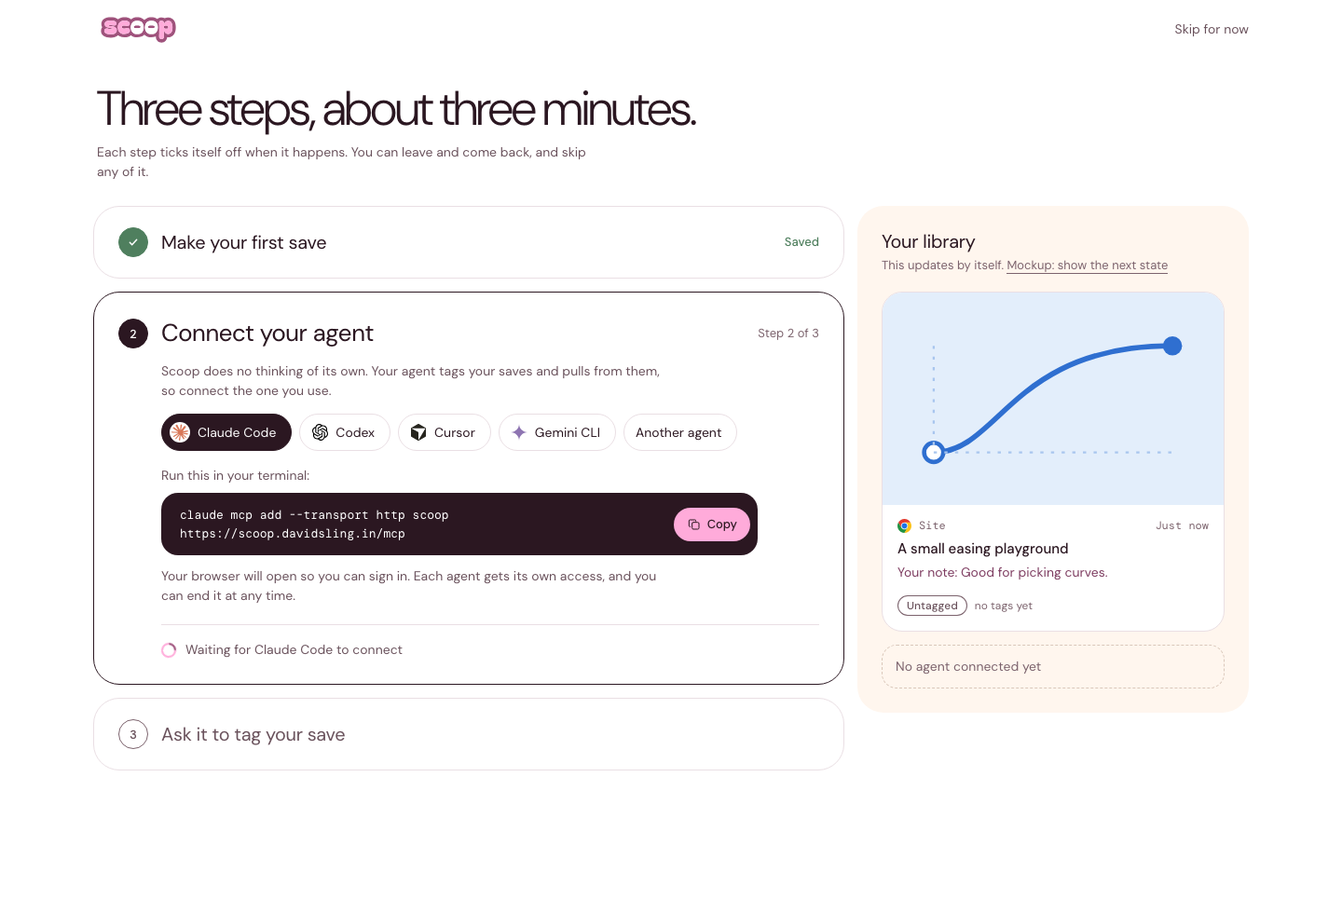
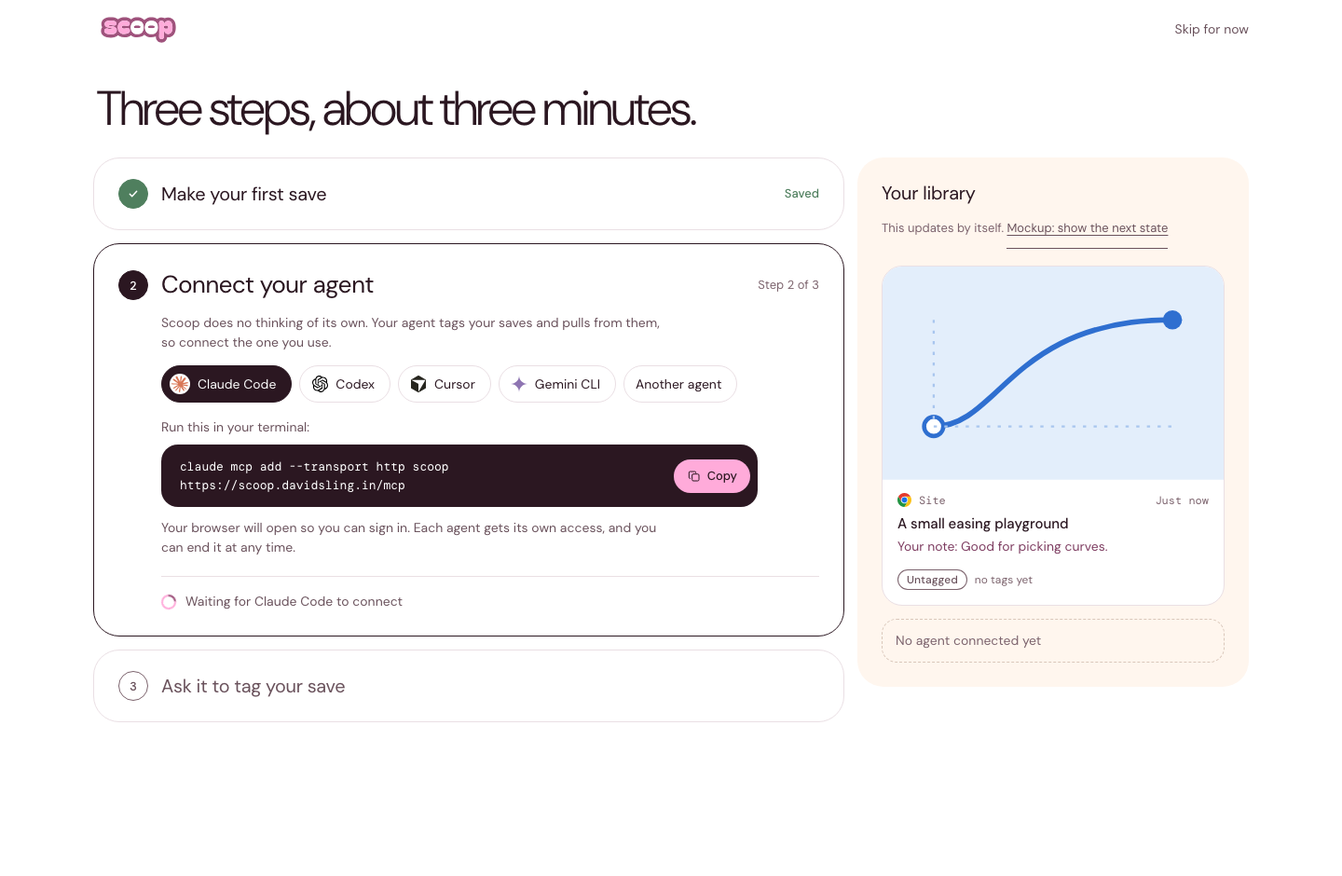
feat: add a clickable onboarding walkthrough

diff --git a/mockups/onboarding.html b/mockups/onboarding.html
@@ -1,0 +1,297 @@
+<!doctype html>
+<html lang="en">
+<head>
+<meta charset="utf-8">
+<meta name="viewport" content="width=device-width, initial-scale=1">
+<title>Get started · Scoop</title>
+<!-- Mockup with invented sample data. Nothing here is real. -->
+<link rel="preconnect" href="https://fonts.googleapis.com">
+<link rel="preconnect" href="https://fonts.gstatic.com" crossorigin>
+<link href="https://fonts.googleapis.com/css2?family=DM+Mono:wght@400;500&family=DM+Sans:opsz,wght@9..40,300;9..40,400;9..40,500;9..40,600&display=swap" rel="stylesheet">
+<link rel="stylesheet" href="app.css">
+<link rel="stylesheet" href="onboarding.css">
+</head>
+<body>
+<svg width="0" height="0" style="position:absolute" aria-hidden="true">
+  <symbol id="i-plus" viewBox="0 0 24 24"><path d="M12 5.500v13M5.500 12h13"/></symbol>
+  <symbol id="i-x" viewBox="0 0 24 24"><path d="m7 7 10 10M17 7 7 17"/></symbol>
+  <symbol id="i-out" viewBox="0 0 24 24"><path d="M9 7h8v8M17 7 7 17"/></symbol>
+  <symbol id="i-pen" viewBox="0 0 24 24"><path d="m5 19 1-4L16.500 4.500l3 3L9 18z"/></symbol>
+  <symbol id="i-skill" viewBox="0 0 24 24"><path d="m12 4-8 4 8 4 8-4zM4 12l8 4 8-4M4 16l8 4 8-4"/></symbol>
+  <symbol id="i-grip" viewBox="0 0 24 24"><path d="M9 6.500h.01M15 6.500h.01M9 12h.01M15 12h.01M9 17.500h.01M15 17.500h.01" stroke-width="2.200"/></symbol>
+  <symbol id="i-tick" viewBox="0 0 24 24"><path d="m6.500 12.500 3.500 3.500 7.500-8" stroke-width="2.200"/></symbol>
+  <symbol id="i-home" viewBox="0 0 24 24"><path d="M4.5 10.5 12 4.5l7.5 6v8a1 1 0 0 1-1 1h-13a1 1 0 0 1-1-1z"/><path d="M9.5 19.500v-5.500h5v5.500"/></symbol>
+  <symbol id="i-inbox" viewBox="0 0 24 24"><path d="M3.5 13.5 6 5.5h12l2.5 8v4a1.5 1.5 0 0 1-1.5 1.5H5a1.5 1.5 0 0 1-1.5-1.5z"/><path d="M3.5 13.5h4.7l1 2.5h5.6l1-2.5h4.7"/></symbol>
+  <symbol id="i-shield" viewBox="0 0 24 24"><path d="M12 3.5 5 6v5.5c0 4.2 2.9 7.400 7 9 4.100-1.600 7-4.800 7-9V6z"/></symbol>
+  <symbol id="i-check" viewBox="0 0 24 24"><circle cx="12" cy="12" r="8.5"/><path d="m8.500 12.300 2.400 2.400 4.600-5"/></symbol>
+  <symbol id="i-plug" viewBox="0 0 24 24"><path d="M9 3.500v4M15 3.500v4M6.500 7.500h11v3.500a5.500 5.500 0 0 1-11 0zM12 16.500v4"/></symbol>
+  <symbol id="i-agent" viewBox="0 0 24 24"><rect x="4.500" y="8" width="15" height="11" rx="3"/><path d="M12 8V4.500M9.500 13v1.500M14.500 13v1.500"/></symbol>
+  <symbol id="i-log" viewBox="0 0 24 24"><path d="M8.500 6.500h11M8.500 12h11M8.500 17.500h11M4.500 6.500h.01M4.500 12h.01M4.500 17.500h.01"/></symbol>
+  <symbol id="i-gear" viewBox="0 0 24 24"><path d="M4.500 7.500h9M17.500 7.500h2M4.500 16.500h2M10.500 16.500h9"/><circle cx="15.500" cy="7.500" r="2"/><circle cx="8.500" cy="16.500" r="2"/></symbol>
+  <symbol id="i-search" viewBox="0 0 24 24"><circle cx="11" cy="11" r="6.500"/><path d="m16 16 4 4"/></symbol>
+  <symbol id="i-mail" viewBox="0 0 24 24"><rect x="3.500" y="5.500" width="17" height="13" rx="2"/><path d="m4 7 8 6 8-6"/></symbol>
+  <symbol id="i-page" viewBox="0 0 24 24"><rect x="3.500" y="4.500" width="17" height="15" rx="2"/><path d="M3.500 9h17M6.500 6.800h.01M9 6.800h.01"/></symbol>
+  <symbol id="i-hash" viewBox="0 0 24 24"><path d="M9.500 4.500 8 19.500M16 4.500l-1.500 15M5 9.500h14.500M4.500 14.500H19"/></symbol>
+  <symbol id="i-play" viewBox="0 0 24 24"><rect x="3.500" y="5.500" width="17" height="13" rx="3"/><path d="m10.500 9.500 4 2.500-4 2.500z"/></symbol>
+  <symbol id="i-branch" viewBox="0 0 24 24"><circle cx="7" cy="6" r="2"/><circle cx="7" cy="18" r="2"/><circle cx="17" cy="8" r="2"/><path d="M7 8v8M17 10c0 3-3 3.500-10 4"/></symbol>
+  <symbol id="i-hook" viewBox="0 0 24 24"><path d="M13 3.500 6 13.500h5.500l-1 7 7-10H12z"/></symbol>
+  <symbol id="i-copy" viewBox="0 0 24 24"><rect x="8.500" y="8.500" width="11" height="11" rx="2"/><path d="M5.500 15.500h-.5a1.500 1.500 0 0 1-1.500-1.500V6A1.500 1.500 0 0 1 5 4.500h8A1.500 1.500 0 0 1 14.500 6v.5"/></symbol>
+  <symbol id="i-tag" viewBox="0 0 24 24"><path d="M4.500 5.500v6l8 8 6.500-6.500-8-8z"/><path d="M8.500 9.500h.01"/></symbol>
+  <symbol id="i-clock" viewBox="0 0 24 24"><circle cx="12" cy="12" r="8.500"/><path d="M12 7.500V12l3 2"/></symbol>
+  <symbol id="i-trash" viewBox="0 0 24 24"><path d="M4.500 7h15M9.500 7V4.500h5V7M6.500 7l1 12.500h9l1-12.500"/></symbol>
+  <symbol id="i-flag" viewBox="0 0 24 24"><path d="M6 20.500v-16M6 5.500h11l-2.500 4 2.500 4H6"/></symbol>
+  <symbol id="i-chev" viewBox="0 0 24 24"><path d="m10 7 5 5-5 5"/></symbol>
+</svg>
+
+
+<!-- One-file clickthrough of the onboarding flow. Nothing is sent anywhere: every step is simulated. -->
+<div class="join" id="join">
+  <div class="art">
+    <img class="mark" src="../brand/lockup-v2/scoop-lockup-mark-transparent.svg" alt="">
+    <span class="logo"><img src="../brand/lockup-v2/scoop-lockup-tidy-wordmark-transparent.svg" alt="Scoop"></span>
+    <h1>Save what you like. Your agent takes it from there.</h1>
+    <p>A library of the posts, pages and tools you collect, kept where your AI agent can search it when a project starts.</p>
+  </div>
+  <div class="form">
+    <form id="f" novalidate>
+      <h2>Create your library</h2>
+      <p class="lead">It takes about three minutes to save your first thing and connect an agent.</p>
+      <div class="field">
+        <label for="u">Pick a name</label>
+        <div class="pick" id="pick"><input id="u" type="text" value="david" autocomplete="off" spellcheck="false" aria-describedby="uh"><span>@scoop.davidsling.in</span></div>
+        <div class="okline" id="uh" aria-live="polite"><svg class="i"><use href="#i-tick"/></svg><span>Available. This becomes your agent's address, for newsletters.</span></div>
+      </div>
+      <div class="field">
+        <label for="e">Your email</label>
+        <input id="e" type="email" placeholder="you@example.com" autocomplete="email" aria-describedby="eh">
+        <div class="hint" id="eh">We send a link to sign in. There is no password.</div>
+      </div>
+      <button class="btn solid wide" type="submit">Send me a sign-in link</button>
+      <div class="or">or</div>
+      <button class="btn outline wide" type="button" id="gh"><img class="b" src="icons/github.svg" alt="">Continue with GitHub</button>
+      <p class="fine">Scoop stores what you save and nothing else. It runs no AI of its own, and it never sends, posts or pays for anything.</p>
+    </form>
+    <div class="check" id="check" hidden>
+      <h2 tabindex="-1" id="checkh">Check your email</h2>
+      <p>We sent a sign-in link to <strong id="sent"></strong>. It works once and lasts 15 minutes.</p>
+      <button class="btn solid wide" type="button" id="open">Mockup: open the link</button>
+      <div class="links"><a href="#" id="again">Send it again</a><a href="#" id="change">Use a different email</a></div>
+    </div>
+  </div>
+</div>
+
+<div class="wrap" id="setup" hidden>
+  <header class="ob-top"><span class="logo"><img src="../brand/lockup-v2/scoop-lockup-tidy-wordmark-transparent.svg" alt="Scoop"></span><a class="skip" href="dashboard.html">Skip for now</a></header>
+  <div class="setup-hd">
+    <h1>Three steps, about three minutes.</h1>
+  </div>
+  <div class="setup">
+    <ol class="steps3">
+      <li class="step" data-i="0"><div class="sh"><span class="no"></span><h2 tabindex="-1">Make your first save</h2><span class="state"></span></div>
+        <div class="body">
+          <p>Add the Scoop button to Chrome. Then open any page you like, click the button, and add a line on why you are saving it.</p>
+          <button class="btn solid big" type="button" id="add"><img class="b" src="icons/googlechrome.svg" alt="">Add to Chrome</button><a class="alt" href="#" id="alt" aria-expanded="false" aria-controls="paste">No extension? Paste a link instead</a>
+          <form class="paste" id="paste" hidden><input id="url" type="url" aria-label="Link to save" placeholder="https://"><button class="btn outline" type="submit">Save it</button></form>
+          <div class="promise"><svg class="i"><use href="#i-shield"/></svg><span>The button reads a page only when you click it. It can add to your library and can never read it.</span></div>
+          <div class="waiting"><span class="ring"></span><span class="wt" aria-live="polite">Waiting for your first save</span></div>
+        </div>
+      </li>
+      <li class="step" data-i="1"><div class="sh"><span class="no"></span><h2 tabindex="-1">Connect your agent</h2><span class="state"></span></div>
+        <div class="body">
+          <p>Scoop does no thinking of its own. Your agent tags your saves and pulls from them, so connect the one you use.</p>
+          <ul class="agentpick" aria-label="Choose your agent">
+            <li><button type="button" data-a="claude"><img class="b" src="icons/claude.svg" alt="">Claude Code</button></li>
+            <li><button type="button" data-a="codex"><img class="b" src="icons/openai.svg" alt="">Codex</button></li>
+            <li><button type="button" data-a="cursor"><img class="b" src="icons/cursor.svg" alt="">Cursor</button></li>
+            <li><button type="button" data-a="gemini"><img class="b" src="icons/gemini.svg" alt="">Gemini CLI</button></li>
+            <li><button type="button" data-a="other">Another agent</button></li>
+          </ul>
+          <p style="margin-bottom:8px" id="lead"></p>
+          <div class="code"><code id="cmd"></code><button type="button" id="copy1"><svg class="i"><use href="#i-copy"/></svg><span>Copy</span></button></div>
+          <p class="sub2">Your browser will open so you can sign in. Each agent gets its own access, and you can end it at any time.</p>
+          <div class="waiting"><span class="ring"></span><span class="wt" aria-live="polite"></span></div>
+        </div>
+      </li>
+      <li class="step" data-i="2"><div class="sh"><span class="no"></span><h2 tabindex="-1">Ask it to tag your save</h2><span class="state"></span></div>
+        <div class="body">
+          <p>Your save has no tags yet, because Scoop never tags anything itself. Say this to <span data-an></span>:</p>
+          <div class="say"><span id="say">Tag the untagged saves in my Scoop library.</span><button type="button" id="copy2"><svg class="i"><use href="#i-copy"/></svg><span>Copy</span></button></div>
+          <p class="sub2">It will ask you before it changes anything else, and you can undo whatever it does.</p>
+          <div class="waiting"><span class="ring"></span><span class="wt" aria-live="polite">Waiting for the first tag</span></div>
+        </div>
+      </li>
+    </ol>
+    <aside class="live" id="live"></aside>
+  </div>
+</div>
+
+<div class="wrap" id="done" hidden>
+  <header class="ob-top"><span class="logo"><img src="../brand/lockup-v2/scoop-lockup-tidy-wordmark-transparent.svg" alt="Scoop"></span></header>
+  <div class="setup" style="margin-top:26px">
+    <div style="display:grid;gap:14px">
+      <section class="tile fin">
+        <img class="mark" src="../brand/lockup-v2/scoop-lockup-mark-transparent.svg" alt="">
+        <h1 tabindex="-1" id="doneh" style="outline:none"><span data-an></span> just tagged your save.</h1>
+        <p>That is the whole idea. You save what you like, and your agent keeps it organised and uses it when you start a project.</p>
+        <a class="btn solid" href="dashboard.html">Open your library</a>
+      </section>
+      <section class="tile">
+        <div class="hd"><h2>When you are ready</h2></div>
+        <ul class="next">
+          <li><span class="ic"><svg class="i"><use href="#i-mail"/></svg></span><div><div class="t">Subscribe to a newsletter</div><p>Use <span id="addr"></span> and every issue lands in your library.</p></div><button class="btn outline" type="button" id="copy3"><span>Copy address</span></button></li>
+          <li><span class="ic"><svg class="i"><use href="#i-page"/></svg></span><div><div class="t">Start a project</div><p>Put the saves you want used in one place, then point your agent at it.</p></div><a class="btn outline" href="projects.html">New project</a></li>
+          <li><span class="ic"><svg class="i"><use href="#i-agent"/></svg></span><div><div class="t">Connect another agent</div><p>They all work from the same library, tags and projects.</p></div><a class="btn outline" href="agents.html">Connect</a></li>
+        </ul>
+      </section>
+    </div>
+    <aside class="live" id="live2"></aside>
+  </div>
+</div>
+
+<div class="mock">Mockup, nothing is sent<a href="#" id="restart">Start again</a></div>
+
+<template id="t-card"><ul class="saves" style="grid-template-columns:1fr"><li class="save"><a href="#"><span class="thumb"><svg viewBox="0 0 320 200" preserveAspectRatio="xMidYMid slice" aria-hidden="true"><rect width="320" height="200" fill="#E3EEFB"/><path d="M48 150C110 150 120 50 272 50" fill="none" stroke="#2F6FD0" stroke-width="5" stroke-linecap="round"/><circle cx="48" cy="150" r="9" fill="#fff" stroke="#2F6FD0" stroke-width="4"/><circle cx="272" cy="50" r="9" fill="#2F6FD0"/><path d="M48 50v100h224" fill="none" stroke="#A9C6EE" stroke-width="2" stroke-dasharray="3 7"/></svg></span><div class="txt"><div class="src"><img class="b" src="icons/googlechrome.svg" alt="">Site<time>Just now</time></div><h3>A small easing playground</h3><p>Your note: Good for picking curves.</p><div class="tagged" id="tg"><span class="chip none">Untagged</span><span class="by">no tags yet</span></div></div></a></li></ul></template>
+<template id="t-ghost"><div class="ghost"><div><img src="../brand/lockup-v2/scoop-lockup-mark-small-transparent.svg" alt=""><div>Your first save will appear here the moment you make it.</div></div></div></template>
+
+<script>
+(function () {
+  var U = 'https://scoop.davidsling.in/mcp';
+  var AG = {
+    claude: { name: 'Claude Code', icon: 'icons/claude.svg', lead: 'Run this in your terminal:', cmd: 'claude mcp add --transport http scoop ' + U },
+    codex:  { name: 'Codex', icon: 'icons/openai.svg', lead: 'Run this in your terminal:', cmd: 'codex mcp add scoop --url ' + U },
+    cursor: { name: 'Cursor', icon: 'icons/cursor.svg', lead: 'Add this to ~/.cursor/mcp.json:', cmd: '{ "mcpServers": { "scoop": { "url": "' + U + '" } } }' },
+    gemini: { name: 'Gemini CLI', icon: 'icons/gemini.svg', lead: 'Run this in your terminal:', cmd: 'gemini mcp add --transport http scoop ' + U },
+    other:  { name: 'your agent', icon: '', lead: 'Add this address as a remote MCP server:', cmd: U }
+  };
+  var $ = function (s) { return document.querySelector(s); };
+  var $$ = function (s) { return Array.prototype.slice.call(document.querySelectorAll(s)); };
+  var fresh = function () { return { screen: 'join', agent: 'claude', saved: false, connected: false, tagged: false, pend: [false, false, false] }; };
+  var st = fresh(), timers = [], shown = '', lastStep = -1;
+  var later = function (fn, ms) { timers.push(setTimeout(fn, ms)); };
+  var cap = function (s) { return s.charAt(0).toUpperCase() + s.slice(1); };
+  var stepOf = function () { return !st.saved ? 0 : !st.connected ? 1 : !st.tagged ? 2 : 3; };
+  var DONE = function (i) { return ['Saved', cap(AG[st.agent].name) + ' connected', 'Tagged'][i]; };
+
+  function liveHTML(final) {
+    var a = AG[st.agent];
+    var h = '<h2>Your library</h2><p class="cap">' + (final ? '1 save, tagged a moment ago.' : 'In this mockup each step finishes a moment after you click.') + '</p>';
+    h += st.saved ? $('#t-card').innerHTML : $('#t-ghost').innerHTML;
+    h += st.connected
+      ? '<div class="conn">' + (a.icon ? '<img class="b" src="' + a.icon + '" alt="">' : '') + cap(a.name) + '<span class="chip plain ok">Connected</span></div>'
+      : '<div class="conn off">No agent connected yet</div>';
+    return h;
+  }
+  function paintLive(el, final, popSel) {
+    el.innerHTML = liveHTML(final);
+    var tg = el.querySelector('#tg');
+    if (tg && st.tagged) tg.innerHTML = '<span class="chip">Animation</span><span class="chip">Tools</span><span class="by">by ' + cap(AG[st.agent].name) + '</span>';
+    var p = popSel && el.querySelector(popSel);
+    if (p) p.classList.add('pop');
+  }
+
+  function render(popSel) {
+    var a = AG[st.agent], step = stepOf();
+    ['join', 'setup', 'done'].forEach(function (id) {
+      var el = $('#' + id); el.hidden = st.screen !== id;
+      if (st.screen === id && shown !== id) { el.classList.remove('enter'); void el.offsetWidth; el.classList.add('enter'); }
+    });
+    $$('[data-an]').forEach(function (n) { n.textContent = n.closest('h1') ? cap(a.name) : a.name; });
+    $$('.step').forEach(function (li) {
+      var i = +li.dataset.i;
+      li.classList.toggle('done', i < step); li.classList.toggle('now', i === step);
+      li.querySelector('.no').innerHTML = i < step ? '<svg class="i"><use href="#i-tick"/></svg>' : i + 1;
+      li.querySelector('.state').textContent = i < step ? DONE(i) : i === step ? 'Step ' + (i + 1) + ' of 3' : '';
+    });
+    $$('.agentpick button').forEach(function (b) { b.setAttribute('aria-pressed', b.dataset.a === st.agent); });
+    $('#lead').textContent = a.lead; $('#cmd').textContent = a.cmd;
+    var w = $$('.step .wt');
+    w[0].textContent = st.pend[0] ? 'Button added. Waiting for your first save' : 'Waiting for your first save';
+    w[1].textContent = (st.pend[1] ? 'Copied. ' : '') + 'Waiting for ' + a.name + ' to connect';
+    w[2].textContent = st.pend[2] ? 'Copied. Waiting for the first tag' : 'Waiting for the first tag';
+    $('#add').disabled = st.pend[0];
+    $('#addr').textContent = name() + '@scoop.davidsling.in';
+    paintLive($('#live'), false, popSel); paintLive($('#live2'), true);
+    if (st.screen === 'setup' && step !== lastStep && step < 3) {
+      var h = $('.step.now h2'); if (h && shown === 'setup') h.focus({ preventScroll: true });
+    }
+    if (st.screen === 'done' && shown !== 'done') { window.scrollTo(0, 0); $('#doneh').focus({ preventScroll: true }); }
+    if (st.screen === 'setup' && shown !== 'setup') window.scrollTo(0, 0);
+    lastStep = step; shown = st.screen;
+  }
+
+  function name() { return $('#u').value.trim().toLowerCase() || 'you'; }
+  function copied(btn, text) {
+    try { if (navigator.clipboard) navigator.clipboard.writeText(text).catch(function () {}); } catch (e) {}
+    var s = btn.querySelector('span'), was = s.textContent; s.textContent = 'Copied';
+    setTimeout(function () { s.textContent = was; }, 1600);
+  }
+  function saveArrives() { st.pend[0] = true; render(); later(function () { st.saved = true; render('.save'); }, 1500); }
+
+  // Sign up
+  $('#u').addEventListener('input', function () {
+    var v = this.value.trim(), ok = /^[a-z0-9][a-z0-9-]{1,29}$/.test(v);
+    $('#pick').classList.toggle('bad', !ok);
+    $('#uh').className = ok ? 'okline' : 'err';
+    $('#uh').innerHTML = ok ? '<svg class="i"><use href="#i-tick"/></svg><span>Available. This becomes your agent\'s address, for newsletters.</span>' : 'Use 2 to 30 lowercase letters, numbers or dashes.';
+  });
+  $('#f').addEventListener('submit', function (ev) {
+    ev.preventDefault();
+    if ($('#pick').classList.contains('bad')) { $('#u').focus(); return; }
+    var e = $('#e'), ok = /^[^@\s]+@[^@\s]+\.[^@\s]+$/.test(e.value.trim());
+    e.setAttribute('aria-invalid', !ok);
+    $('#eh').className = ok ? 'hint' : 'err';
+    $('#eh').textContent = ok ? 'We send a link to sign in. There is no password.' : 'Enter your email address so we can send the link.';
+    if (!ok) { e.focus(); return; }
+    $('#sent').textContent = e.value.trim();
+    $('#f').hidden = true; $('#check').hidden = false; $('#check').classList.add('enter'); $('#checkh').focus();
+  });
+  $('#change').addEventListener('click', function (ev) { ev.preventDefault(); $('#check').hidden = true; $('#f').hidden = false; $('#e').focus(); });
+  $('#again').addEventListener('click', function (ev) { ev.preventDefault(); this.textContent = 'Sent again'; var t = this; setTimeout(function () { t.textContent = 'Send it again'; }, 1600); });
+  var enter = function () { if ($('#pick').classList.contains('bad')) { $('#u').focus(); return; } st.screen = 'setup'; render(); };
+  $('#open').addEventListener('click', enter);
+  $('#gh').addEventListener('click', enter);
+
+  // Step 1
+  $('#add').addEventListener('click', saveArrives);
+  $('#alt').addEventListener('click', function (ev) {
+    ev.preventDefault(); var p = $('#paste'); p.hidden = !p.hidden;
+    this.setAttribute('aria-expanded', !p.hidden); if (!p.hidden) $('#url').focus();
+  });
+  $('#paste').addEventListener('submit', function (ev) { ev.preventDefault(); if (!$('#url').value.trim()) { $('#url').focus(); return; } saveArrives(); });
+
+  // Step 2
+  $$('.agentpick button').forEach(function (b) { b.addEventListener('click', function () { st.agent = b.dataset.a; render(); }); });
+  $('#copy1').addEventListener('click', function () {
+    copied(this, AG[st.agent].cmd); if (st.pend[1]) return;
+    st.pend[1] = true; render(); later(function () { st.connected = true; render('.conn'); }, 1800);
+  });
+
+  // Step 3
+  $('#copy2').addEventListener('click', function () {
+    copied(this, $('#say').textContent); if (st.pend[2]) return;
+    st.pend[2] = true; render();
+    later(function () { st.tagged = true; render('#tg'); later(function () { st.screen = 'done'; render(); }, 1500); }, 1800);
+  });
+  $('#copy3').addEventListener('click', function () { copied(this, $('#addr').textContent); });
+
+  $('#restart').addEventListener('click', function (ev) {
+    ev.preventDefault(); timers.forEach(clearTimeout); timers = []; st = fresh();
+    $('#f').hidden = false; $('#check').hidden = true; $('#paste').hidden = true; $('#alt').setAttribute('aria-expanded', false);
+    render(); window.scrollTo(0, 0);
+  });
+
+  // Jump straight to a state with #at=check, 1, 2, 3 or done. #auto clicks the whole path (used to test it).
+  var m = /at=(\w+)/.exec(location.hash), at = m && m[1];
+  if (at === 'check') { $('#e').value = 'you@example.com'; $('#f').requestSubmit(); }
+  if (at && at !== 'check') { st.screen = at === 'done' ? 'done' : 'setup'; st.saved = at !== '1'; st.connected = at === '3' || at === 'done'; st.tagged = at === 'done'; }
+  render();
+  if (location.hash === '#auto') {
+    $('#e').value = 'you@example.com'; $('#f').requestSubmit(); $('#open').click();
+    setTimeout(function () { $('#add').click(); }, 300);
+    setTimeout(function () { document.querySelector('[data-a="codex"]').click(); $('#copy1').click(); }, 2200);
+    setTimeout(function () { $('#copy2').click(); }, 4500);
+  }
+})();
+</script>
+</body>
+</html>

diff --git a/mockups/onboarding.css b/mockups/onboarding.css
@@ -106,3 +106,27 @@
 @media (max-width: 1000px) { .join { grid-template-columns: minmax(0, 1fr); } .join .art { min-height: 300px; } .join .art h1 { font-size: 44px; } .join .art .mark { width: 260px; top: 10px; right: -30px; } .setup { grid-template-columns: minmax(0, 1fr); } .live { position: static; } }
 @media (max-width: 720px) { .setup-hd h1, .fin h1 { font-size: 36px; } .step .body { margin-left: 0; } .alt { margin-left: 0; display: flex; } .code, .say { flex-direction: column; align-items: stretch; border-radius: 18px; padding: 14px; } }
 @media (prefers-reduced-motion: reduce) { .waiting .ring { animation: none; border-top-color: var(--pink); } }
+
+/* Clickthrough */
+[hidden] { display: none !important; }
+.step:not(.now) .body { display: none; }
+.field .err { font-size: 13px; color: var(--warn); }
+.field input[aria-invalid="true"] { border-color: var(--warn); }
+.pick.bad { border-color: var(--warn); }
+.check h2 { margin-bottom: 8px; }
+.check p { margin: 0 0 22px; color: var(--ink-2); max-width: 44ch; }
+.check .links { display: flex; flex-wrap: wrap; gap: 6px 18px; margin-top: 14px; }
+.check .links a, .mock a, .live .cap a { display: inline-flex; align-items: center; min-height: 44px; color: var(--ink-2); text-decoration: underline; text-underline-offset: 3px; }
+.check .links a:hover, .mock a:hover { color: var(--ink); }
+.paste { display: flex; gap: 8px; margin: 14px 0 0; max-width: 640px; }
+.paste input { flex: 1; min-width: 0; height: 48px; padding: 0 18px; font: inherit; font-size: 15px; color: var(--ink); background: #fff; border: 1px solid var(--rule); border-radius: 999px; }
+.paste input:focus { outline: none; border-color: var(--ink); }
+.paste .btn { min-height: 48px; padding: 0 22px; flex: none; }
+.step h2:focus, .check h2:focus { outline: none; }
+.mock { position: fixed; right: 14px; bottom: 14px; display: flex; align-items: center; gap: 12px; padding: 0 16px; background: #fff; border: 1px solid var(--rule); border-radius: 999px; font-size: 13px; color: var(--ink-3); z-index: 5; }
+.enter { animation: enter 320ms var(--ease) both; }
+.pop { animation: pop 380ms var(--ease) both; }
+@keyframes enter { from { opacity: 0; transform: translateY(10px); } }
+@keyframes pop { from { opacity: 0; transform: scale(0.96); } }
+@media (prefers-reduced-motion: reduce) { .enter, .pop { animation-duration: 120ms; } @keyframes enter { from { opacity: 0; } } @keyframes pop { from { opacity: 0; } } }
+@media (max-width: 720px) { .paste { flex-direction: column; } }

diff --git a/mockups/setup-2.html b/mockups/setup-2.html
@@ -47,7 +47,6 @@
   <header class="ob-top"><a class="logo" href="signup.html"><img src="../brand/lockup-v2/scoop-lockup-tidy-wordmark-transparent.svg" alt="Scoop"></a><a class="skip" href="dashboard.html">Skip for now</a></header>
   <div class="setup-hd">
     <h1>Three steps, about three minutes.</h1>
-    <p>Each step ticks itself off when it happens. You can leave and come back, and skip any of it.</p>
   </div>
   <div class="setup">
     <ol class="steps3">

diff --git a/mockups/setup-3.html b/mockups/setup-3.html
@@ -47,7 +47,6 @@
   <header class="ob-top"><a class="logo" href="signup.html"><img src="../brand/lockup-v2/scoop-lockup-tidy-wordmark-transparent.svg" alt="Scoop"></a><a class="skip" href="dashboard.html">Skip for now</a></header>
   <div class="setup-hd">
     <h1>Three steps, about three minutes.</h1>
-    <p>Each step ticks itself off when it happens. You can leave and come back, and skip any of it.</p>
   </div>
   <div class="setup">
     <ol class="steps3">

diff --git a/mockups/setup.html b/mockups/setup.html
@@ -47,7 +47,6 @@
   <header class="ob-top"><a class="logo" href="signup.html"><img src="../brand/lockup-v2/scoop-lockup-tidy-wordmark-transparent.svg" alt="Scoop"></a><a class="skip" href="dashboard.html">Skip for now</a></header>
   <div class="setup-hd">
     <h1>Three steps, about three minutes.</h1>
-    <p>Each step ticks itself off when it happens. You can leave and come back, and skip any of it.</p>
   </div>
   <div class="setup">
     <ol class="steps3">
